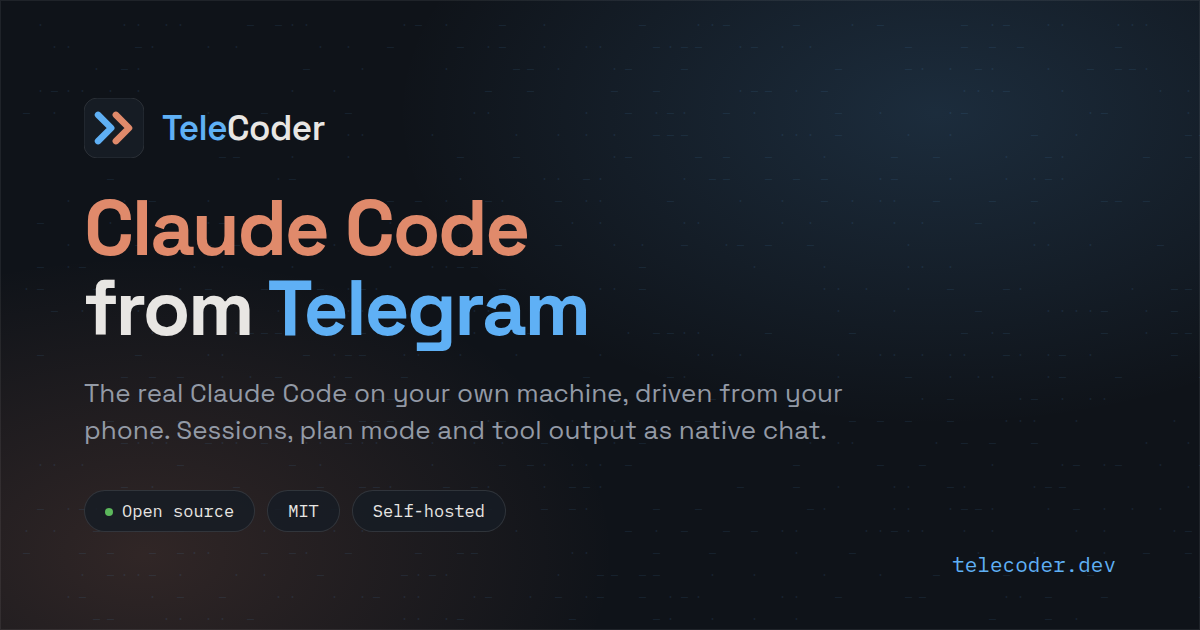
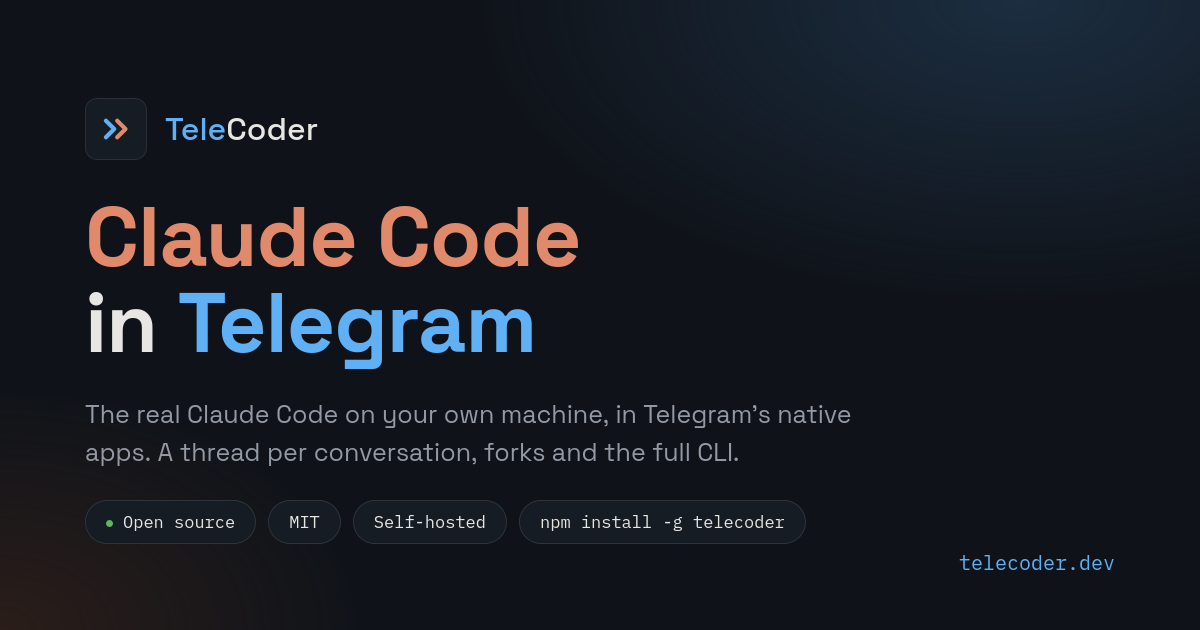
site: redo the preview card with the new pitch, and keep its source
The card still said "from Telegram" and the old subtitle. It's rebuilt from
the site's colours and fonts, and its HTML now lives in scripts/og-card.html
so the next change is a re-render rather than a redraw.

diff --git a/scripts/og-card.html b/scripts/og-card.html
@@ -1,0 +1,24 @@
+<!-- Source of docs/og.png, the link-preview card. Render at 1200x630, e.g.:
+     firefox --headless --window-size=1200,630 --screenshot docs/og.png file://$PWD/scripts/og-card.html -->
+<!DOCTYPE html><html><head><meta charset="utf-8">
+<link href="https://fonts.googleapis.com/css2?family=IBM+Plex+Mono:wght@400;500&family=Space+Grotesk:wght@400;500;700&display=swap" rel="stylesheet">
+<style>
+html,body{margin:0;width:1200px;height:630px;overflow:hidden}
+body{background:radial-gradient(900px 500px at 85% 0%,#1b2d40 0%,transparent 60%),radial-gradient(600px 400px at 0% 100%,#2a1d19 0%,transparent 60%),#0f1319;font-family:'Space Grotesk',sans-serif;color:#e8e6e3;position:relative}
+.w{position:absolute;left:85px;top:98px;right:85px}
+.lock{display:flex;align-items:center;gap:18px;font-size:32px;font-weight:500}
+.mark{width:60px;height:60px;border-radius:12px;background:#161c24;border:1px solid rgba(232,230,227,.1);display:flex;align-items:center;justify-content:center}
+.tele{color:#5fb0f5}
+h1{margin:34px 0 0;font-size:84px;line-height:1.02;font-weight:700;letter-spacing:-1px}
+h1 .c{color:#e08a6b}
+p{margin:30px 0 0;font-size:25px;line-height:1.5;color:#939aa6;max-width:800px}
+.b{display:flex;gap:12px;margin-top:30px}
+.b span{font-family:'IBM Plex Mono',monospace;font-size:17px;padding:10px 20px;border-radius:100px;background:#161c24;border:1px solid rgba(232,230,227,.12)}
+.dot{display:inline-block;width:7px;height:7px;border-radius:50%;background:#5cb85c;margin-right:10px;vertical-align:middle}
+.url{position:absolute;right:85px;bottom:55px;font-family:'IBM Plex Mono',monospace;font-size:20px;color:#5fb0f5}
+</style></head><body><div class="w">
+<div class="lock"><div class="mark"><svg width="38" height="38" viewBox="0 0 64 64"><path d="M15 18 29 32 15 46" fill="none" stroke="#5fb0f5" stroke-width="7" stroke-linecap="round" stroke-linejoin="round"/><path d="M34 18 48 32 34 46" fill="none" stroke="#e08a6b" stroke-width="7" stroke-linecap="round" stroke-linejoin="round"/></svg></div><span><span class="tele">Tele</span>Coder</span></div>
+<h1><span class="c">Claude Code</span><br>in <span class="tele">Telegram</span></h1>
+<p>The real Claude Code on your own machine, in Telegram's native apps. A thread per conversation, forks and the full CLI.</p>
+<div class="b"><span><i class="dot"></i>Open source</span><span>MIT</span><span>Self-hosted</span><span>npm install -g telecoder</span></div>
+</div><div class="url">telecoder.dev</div></body></html>

diff --git a/docs/index.html b/docs/index.html
@@ -21,7 +21,7 @@
   <meta property="og:image" content="https://telecoder.dev/og.png">
   <meta property="og:image:width" content="1200">
   <meta property="og:image:height" content="630">
-  <meta property="og:image:alt" content="TeleCoder — Claude Code from Telegram">
+  <meta property="og:image:alt" content="TeleCoder — Claude Code in Telegram">
   <meta name="twitter:card" content="summary_large_image">
   <meta name="twitter:title" content="TeleCoder — Claude Code in Telegram">
   <meta name="twitter:description" content="The real Claude Code on your own machine, driven from Telegram's native apps: a thread per conversation, forks, the full CLI, and voice. Self-hosted and open source.">
